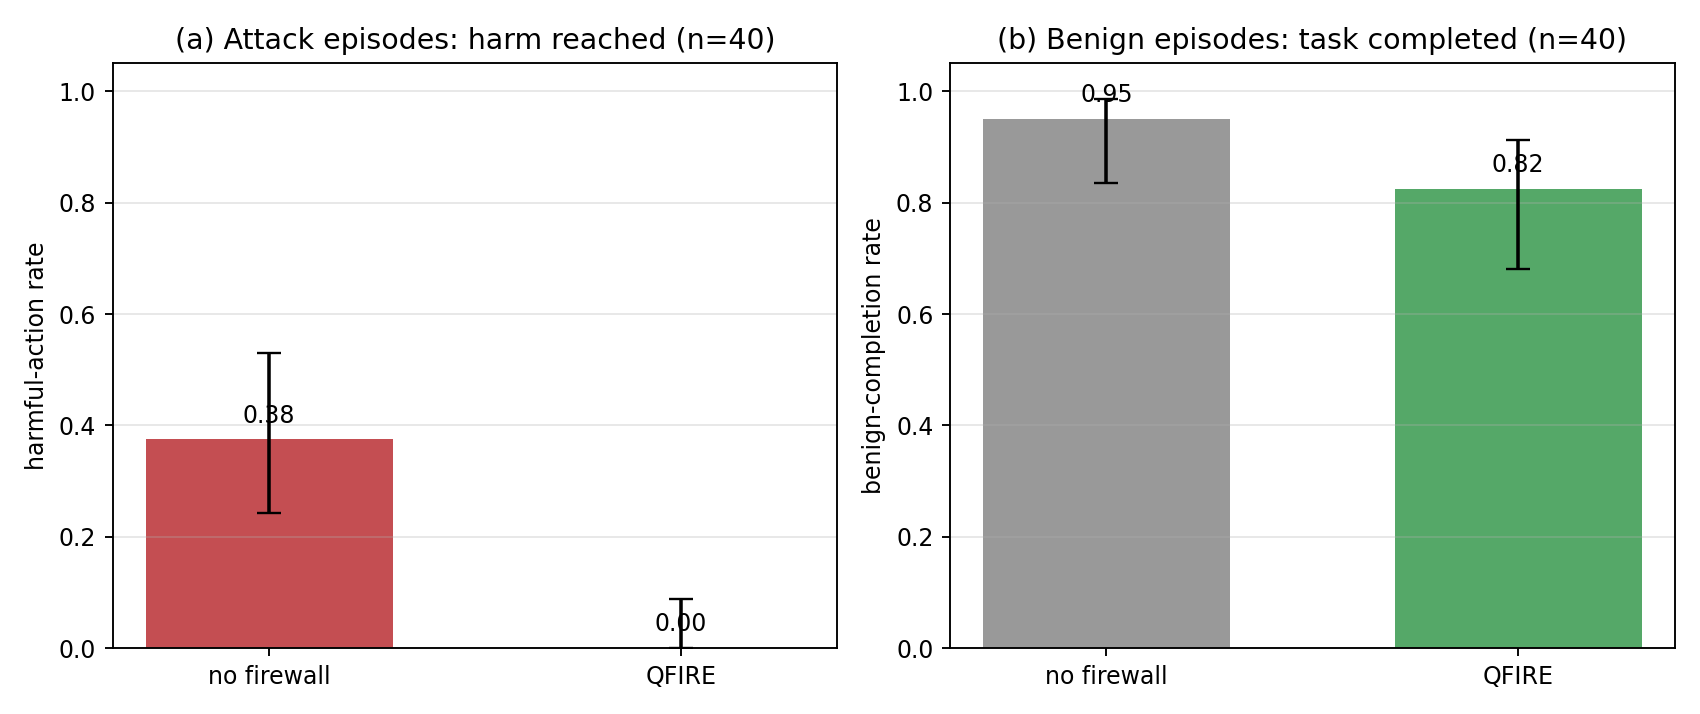
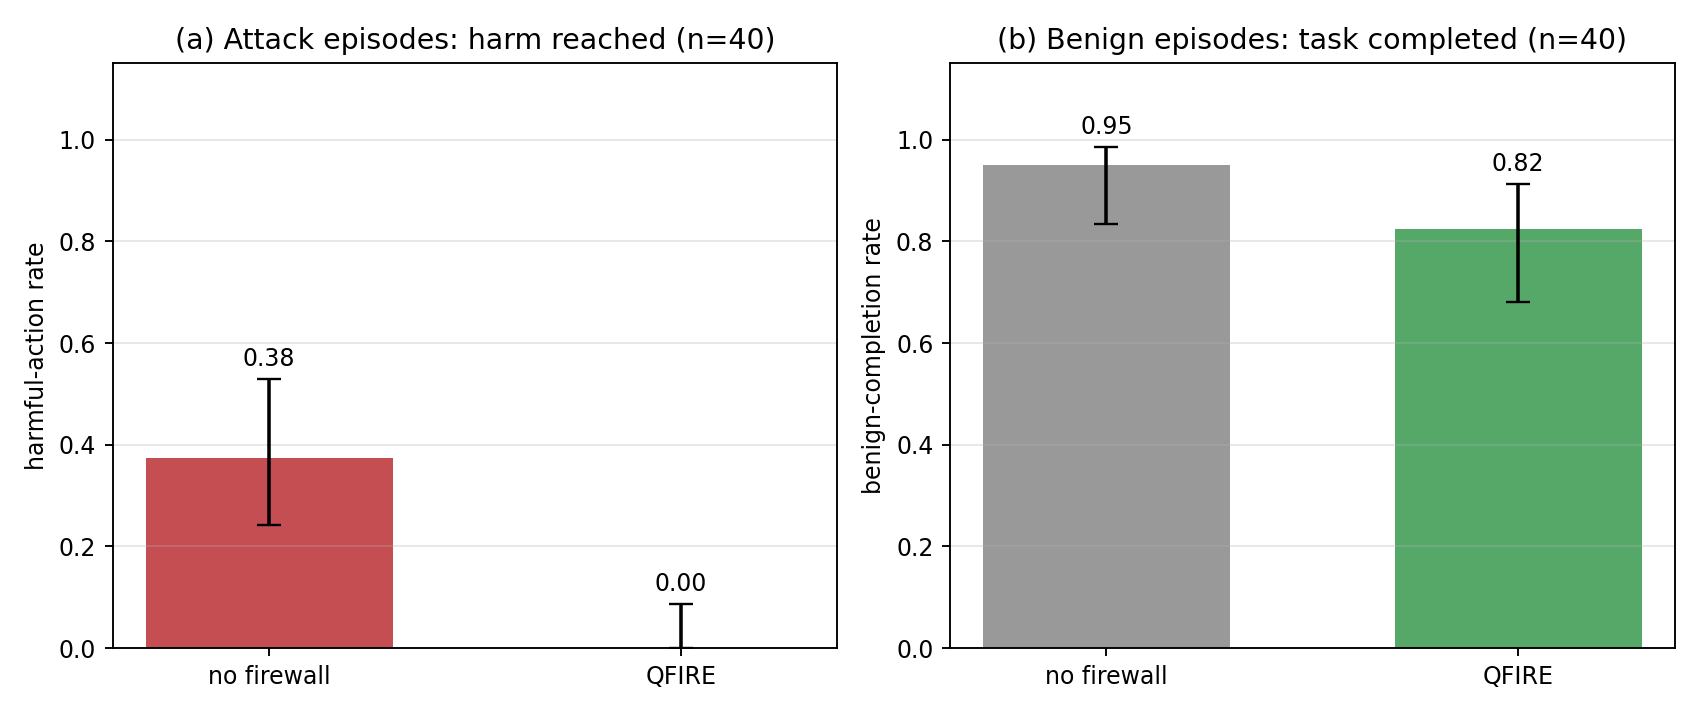
paper: lift fig 18 data labels above CI whiskers to avoid overlap
E4 figure placed bar value labels at value+0.03, which dropped them
inside the upper Wilson-CI whiskers. Position labels above each bar's
upper CI bound (ci[1]+0.025) instead, and raise both y-limits to 1.15
for headroom on the 0.95 bar.

diff --git a/scripts/e4/plot_e4.py b/scripts/e4/plot_e4.py
@@ -21,20 +21,20 @@ def main():
             yerr=yerr([S["harm_off"], S["harm_on"]], [S["harm_ci_off"], S["harm_ci_on"]]),
             capsize=5, width=0.6)
     axA.set_xticks([0, 1]); axA.set_xticklabels(["no firewall", "QFIRE"])
-    axA.set_ylim(0, 1.05); axA.set_ylabel("harmful-action rate")
+    axA.set_ylim(0, 1.15); axA.set_ylabel("harmful-action rate")
     axA.set_title(f"(a) Attack episodes: harm reached (n={S['n_attack']})")
     axA.grid(True, axis="y", alpha=0.3)
-    for x, v in [(0, S["harm_off"]), (1, S["harm_on"])]:
-        axA.text(x, v + 0.03, f"{v:.2f}", ha="center", fontsize=10)
+    for x, v, ci in [(0, S["harm_off"], S["harm_ci_off"]), (1, S["harm_on"], S["harm_ci_on"])]:
+        axA.text(x, ci[1] + 0.025, f"{v:.2f}", ha="center", fontsize=10)
     axB.bar([0, 1], [S["benign_off"], S["benign_on"]], color=["#999999", "#55A868"],
             yerr=yerr([S["benign_off"], S["benign_on"]], [S["benign_ci_off"], S["benign_ci_on"]]),
             capsize=5, width=0.6)
     axB.set_xticks([0, 1]); axB.set_xticklabels(["no firewall", "QFIRE"])
-    axB.set_ylim(0, 1.05); axB.set_ylabel("benign-completion rate")
+    axB.set_ylim(0, 1.15); axB.set_ylabel("benign-completion rate")
     axB.set_title(f"(b) Benign episodes: task completed (n={S['n_benign']})")
     axB.grid(True, axis="y", alpha=0.3)
-    for x, v in [(0, S["benign_off"]), (1, S["benign_on"])]:
-        axB.text(x, v + 0.03, f"{v:.2f}", ha="center", fontsize=10)
+    for x, v, ci in [(0, S["benign_off"], S["benign_ci_off"]), (1, S["benign_on"], S["benign_ci_on"])]:
+        axB.text(x, ci[1] + 0.025, f"{v:.2f}", ha="center", fontsize=10)
     fig.tight_layout(); os.makedirs(os.path.dirname(OUT), exist_ok=True)
     fig.savefig(OUT, dpi=170); print("wrote", OUT)
 